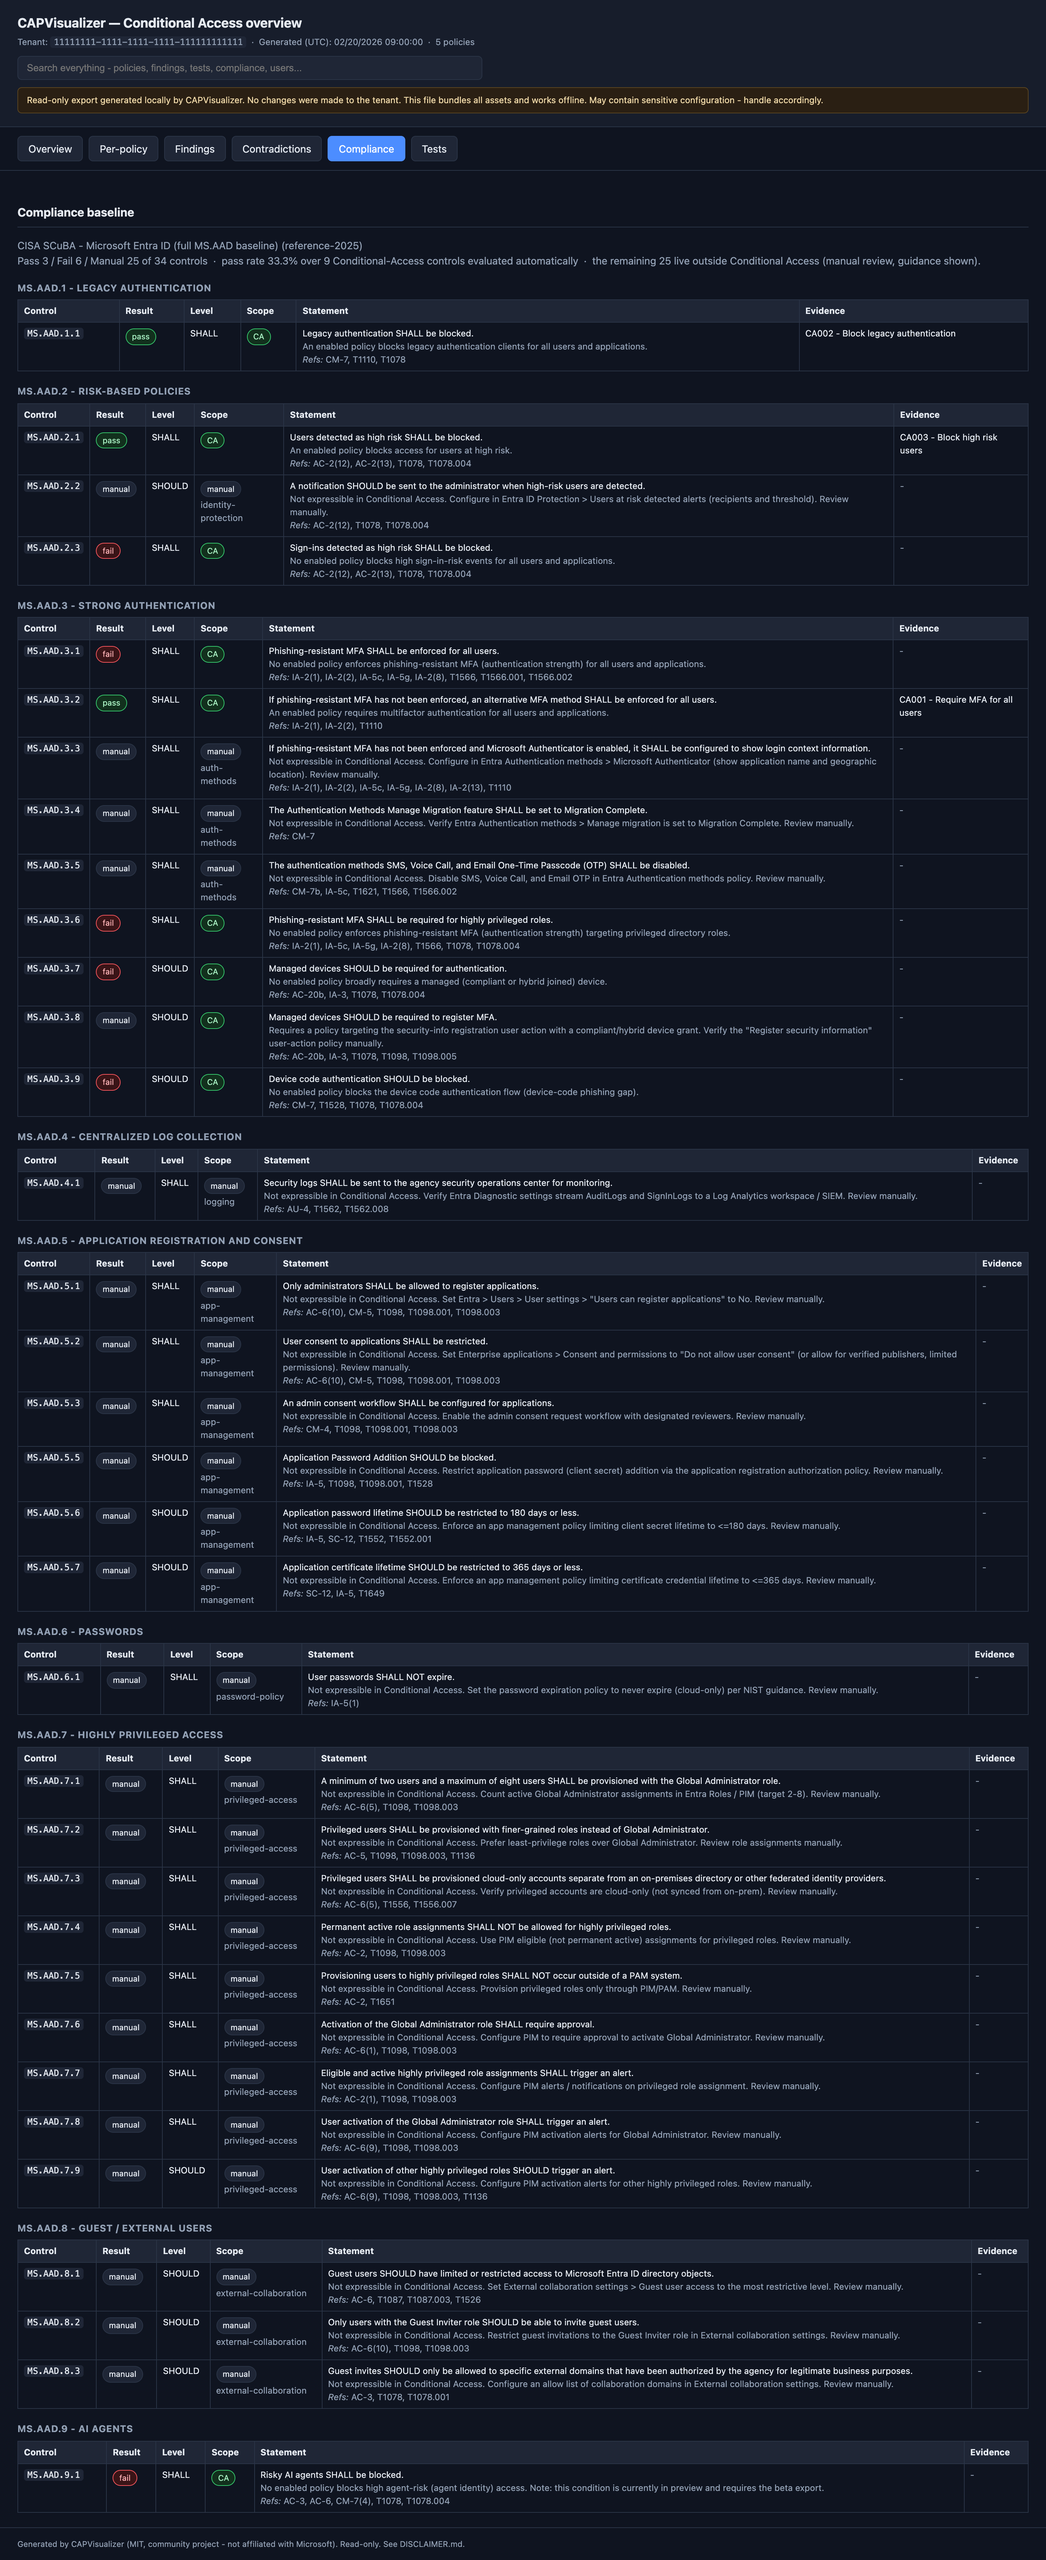
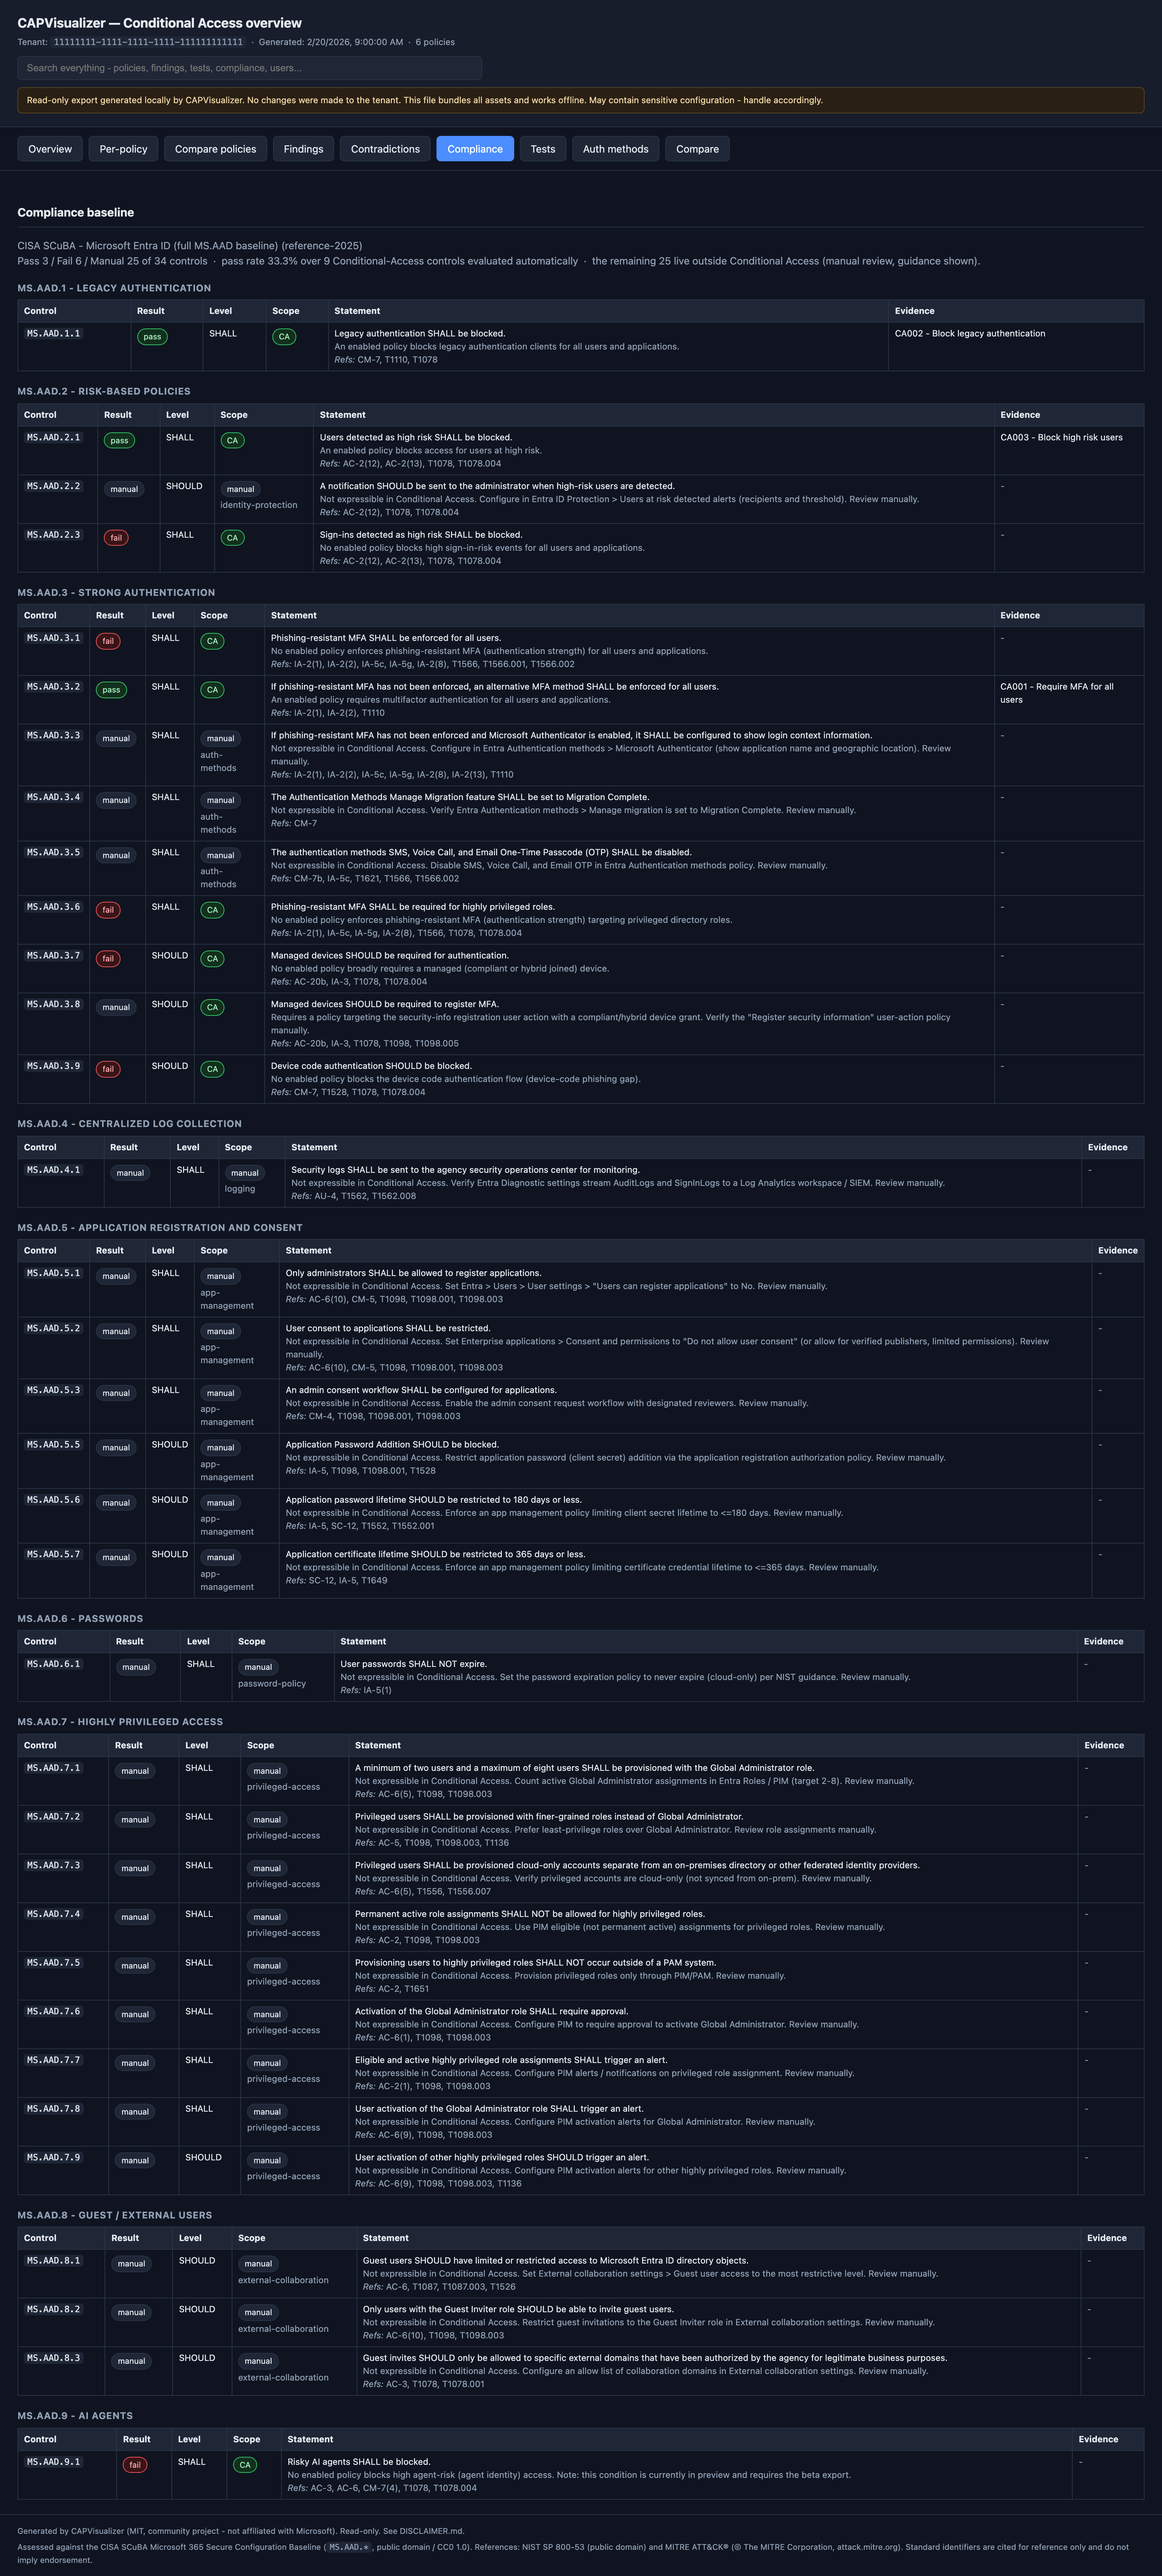
Refresh README screenshots and document SMS/voice + compare-policies
Regenerate all viewer screenshots from the bundled synthetic sample so they
show the current UI (self-explaining findings, SMS/voice red-flagging,
new tab bar), and add a screenshot for the Compare policies tab.

README: document the SMS/voice (telephony) red-flagging in the auth-methods
audit and add a Features bullet for side-by-side policy compare.

Copilot-Session: 04f0e99e-f886-4ee2-bcf0-b20ea5ce82d9

diff --git a/README.md b/README.md
@@ -110,10 +110,15 @@ policies targeting the same users as left"** toggle restricts the right-hand
 dropdown to policies with an identical include-user/group/role targeting set, so
 overlapping or redundant policies surface immediately.
 
+![Compare policies tab](docs/images/08-compare-policies.png)
+
 **Auth methods** - an authentication-method registration audit: tenant rollup
 (MFA registered/capable, passwordless, phishing-resistant, SSPR), prioritized
 gaps (admins without phishing-resistant methods, users not registered), a
-method breakdown, and a per-user table. The per-user table supports free-text
+method breakdown, and a per-user table. Users still relying on **SMS/voice
+(telephony) MFA are red-flagged** - Microsoft is retiring those methods - with a
+dedicated rollup card, an SMS/voice column per user, and separate gaps for
+admins (high) and standard users (medium). The per-user table supports free-text
 search, sortable columns, a "show only" attribute filter (for example, show
 only users who are not MFA-capable), and one-click CSV export of the current
 (filtered) view. Uses only the aggregate registration report, never a user's
@@ -194,6 +199,9 @@ output/<yyyyMMdd-HHmmss>/
 - **In-browser Compare** - the offline viewer can load any two export files and
   list added, removed, and modified policies with field-level changes, without
   re-running the tool.
+- **Side-by-side policy compare** - pick any two policies from the same export
+  and diff them field by field in the browser, with a "show only differences"
+  toggle and a same-targeting filter to surface consolidation candidates.
 - **Hygiene / gap checks** - flags report-only/disabled policies, enabled
   policies with no controls, missing legacy-auth block, and "All users" targeting
   with no break-glass exclusion. Flags only - never changes anything.
@@ -239,7 +247,8 @@ network, reproducible from a JSON export via `-FromJson`:
   `Invoke-CapTest.ps1`.
 - **Auth methods audit** ([docs/AUTHMETHODS.md](docs/AUTHMETHODS.md)) - who is
   registered/capable for MFA, passwordless, phishing-resistant methods and SSPR,
-  with prioritized gaps and a per-user table, from the aggregate registration
+  plus who still relies on the retiring SMS/voice (telephony) methods, with
+  prioritized gaps and a per-user table, from the aggregate registration
   report (never a user's actual method secrets).
 
 These are surfaced as extra tabs in the offline viewer and as `analysis/*.json`
